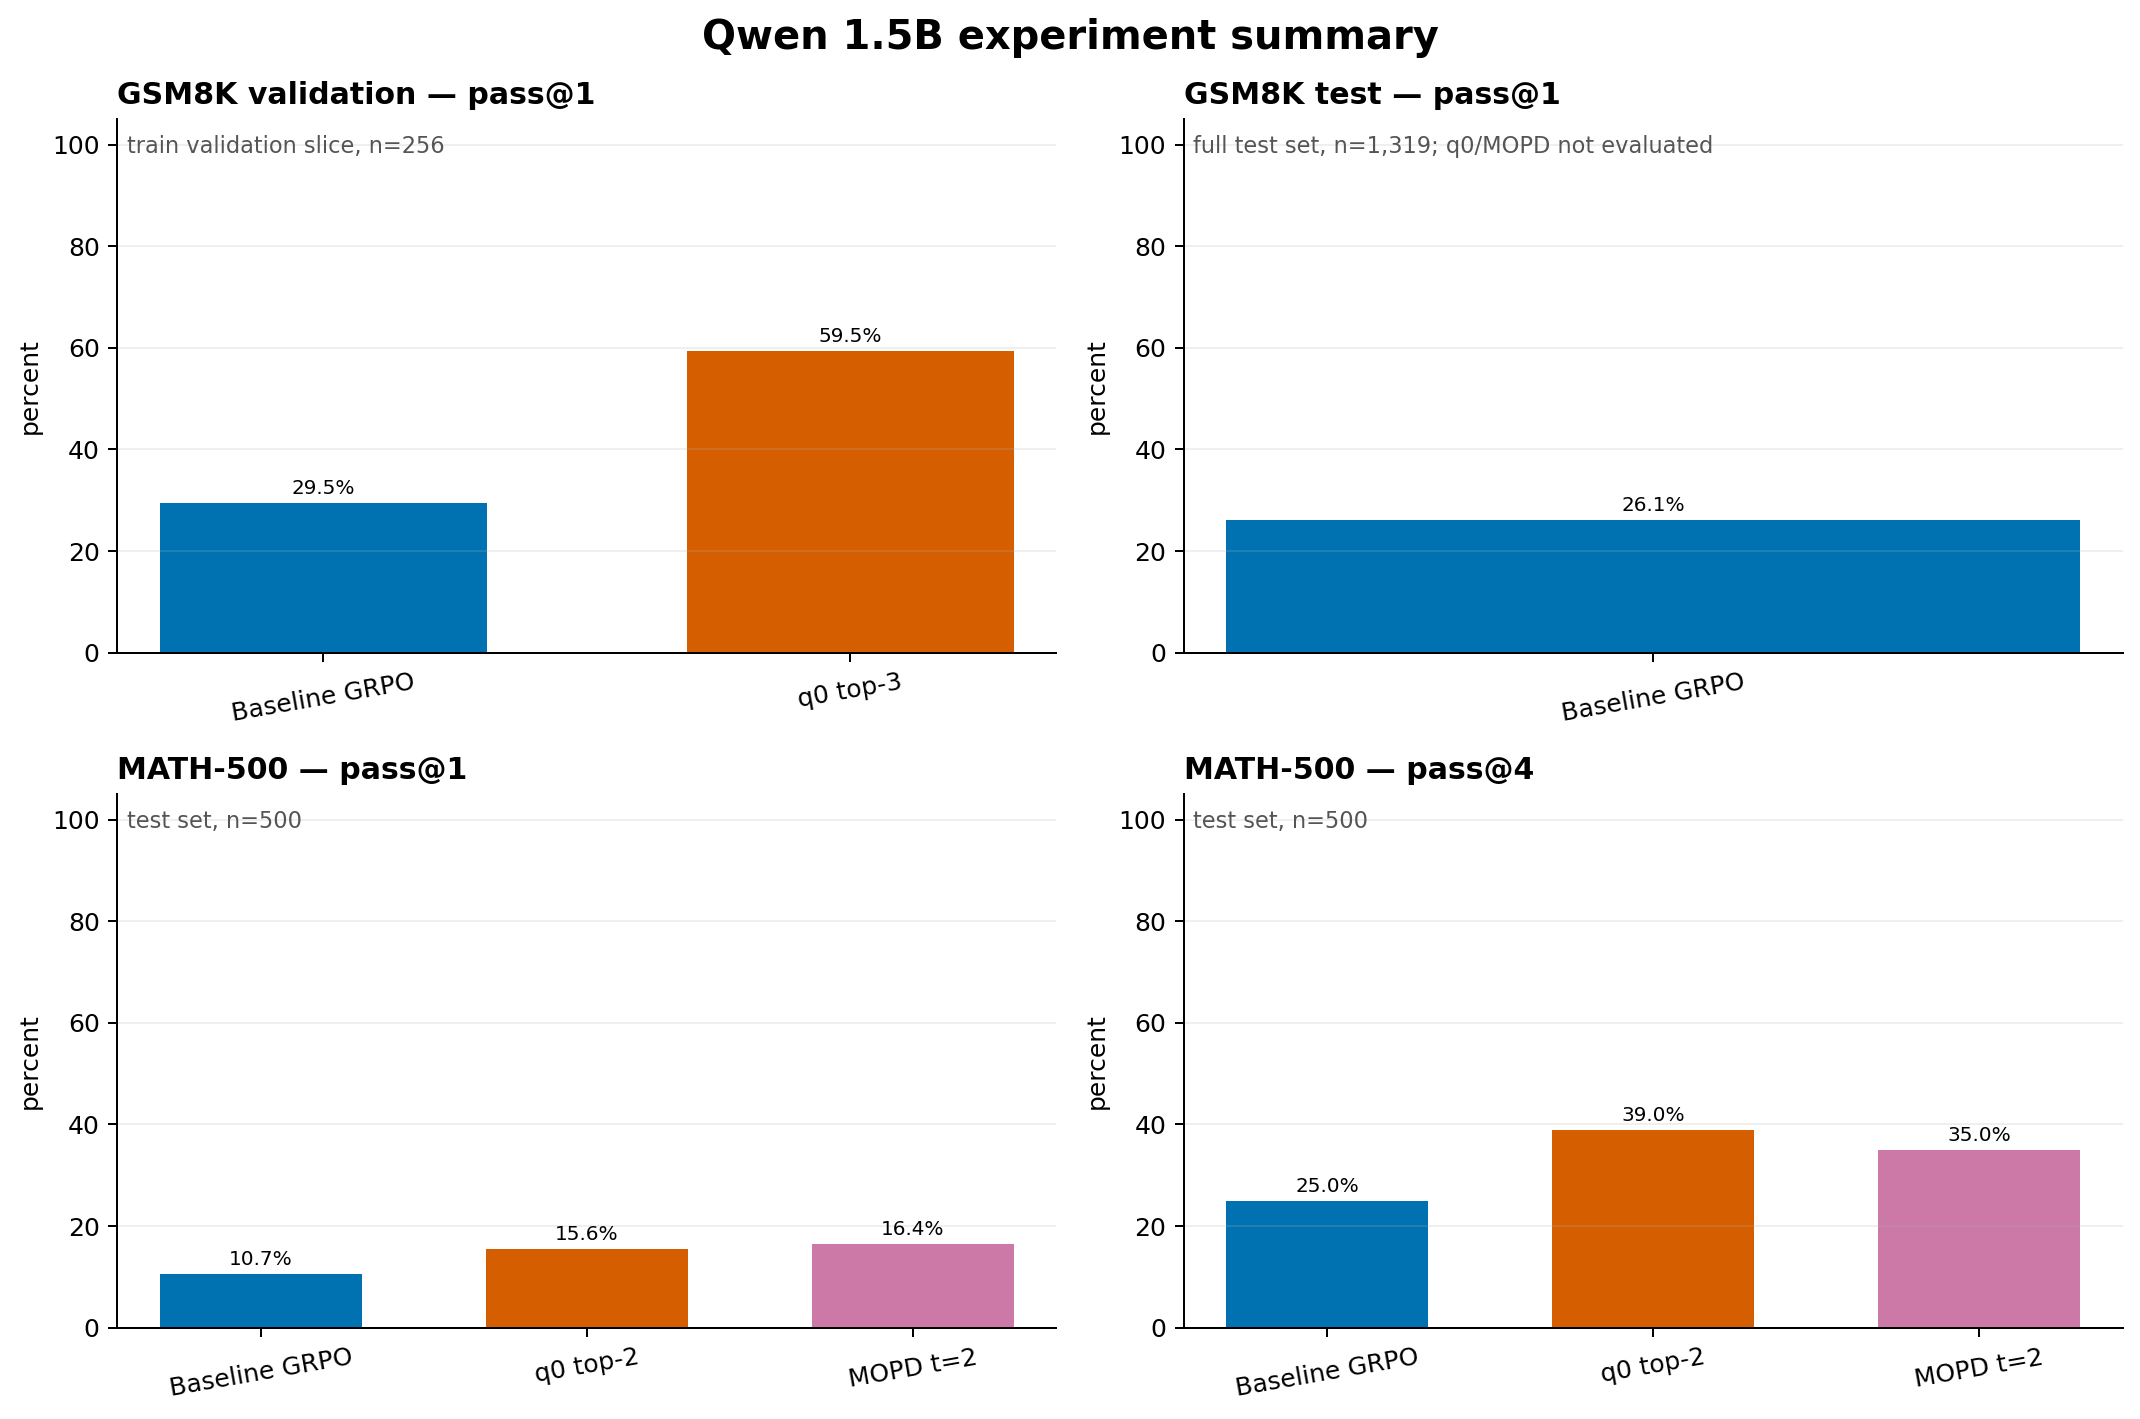
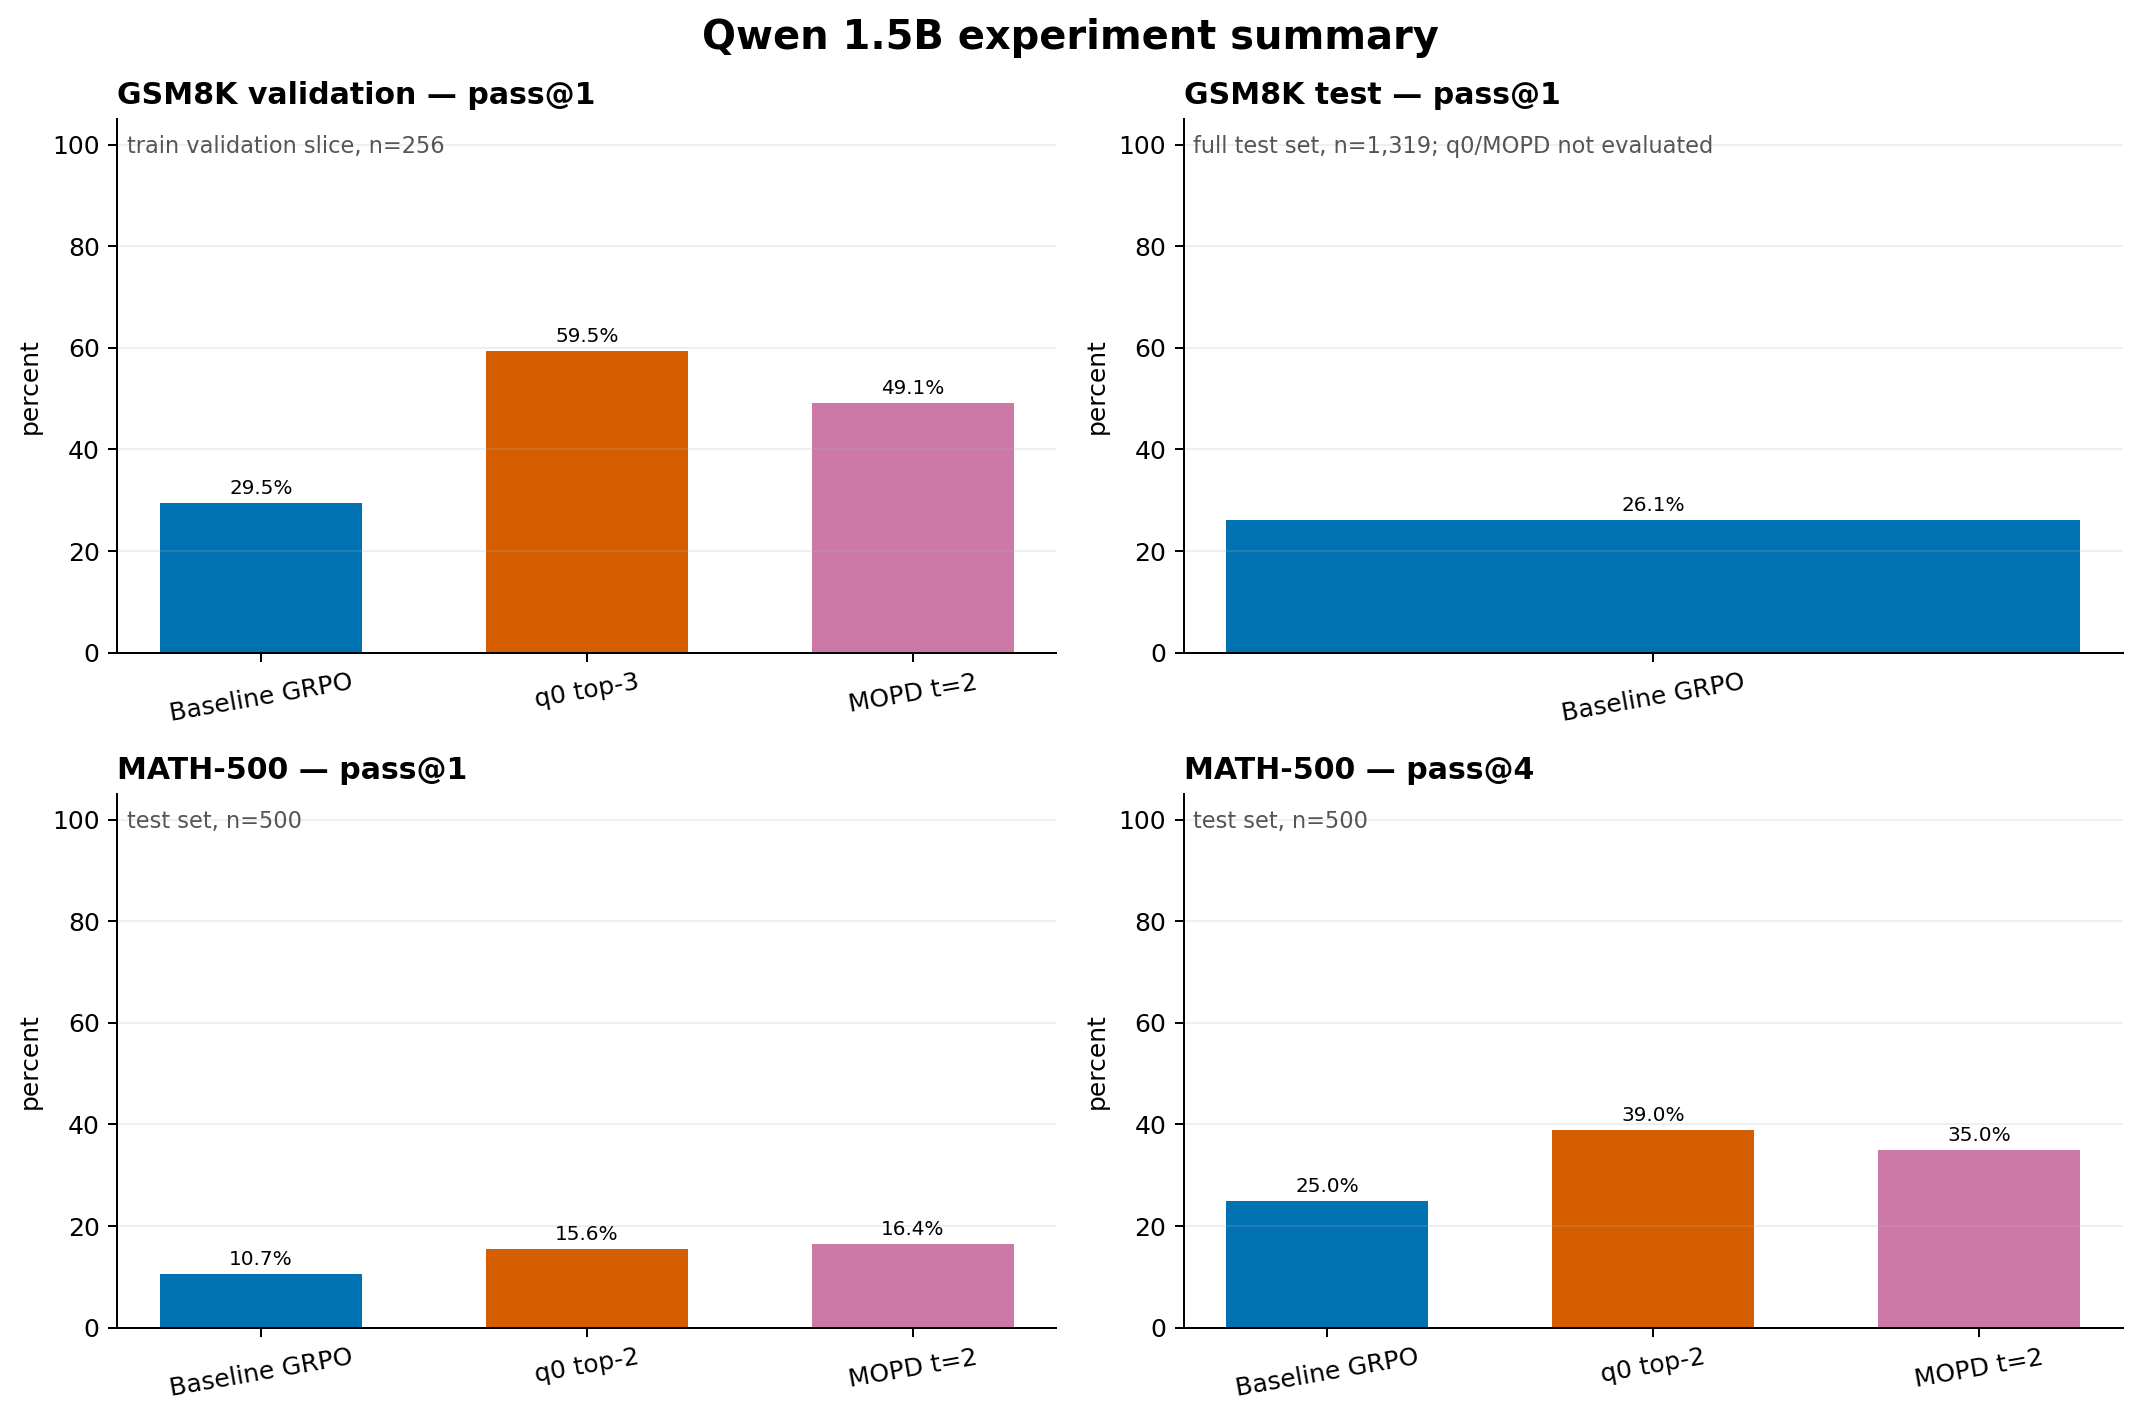
Complete GSM8K validation pass@1 comparison in final experiment graph

Changed region(s): [[0.0925, 0.2481, 0.4935, 0.5271]]

diff --git a/experiments/qwen_1_5b/plot_suite.py b/experiments/qwen_1_5b/plot_suite.py
@@ -287,17 +287,23 @@ def main():
     save(fig, "07_math500_comparisons")
 
     gsm_full = load_json("passk_baseline_gsm8k.json")
-    val_count = json.loads((ROOT / "runs/mopd_qwen1_5b_laptop/validation_results.json").read_text())["validation_count"]
-    gsm_val = {"baseline_grpo": passk.get("baseline_grpo"), "q0": passk.get("q0_k3"), "mopd": None}
+    mopd_t2_val = json.loads((ROOT / "runs/mopd_qwen1_5b_laptop_t2/validation_results.json").read_text())
+    val_count = mopd_t2_val["validation_count"]
+    mopd_t2_best = max(mopd_t2_val["candidates"], key=lambda x: x["pass_at_8"])
+    gsm_val = {"baseline_grpo": passk.get("baseline_grpo"), "q0": passk.get("q0_k3"), "mopd": mopd_t2_best}
     gsm_full_value = gsm_full["result"].get("pass_at_1") if gsm_full else None
-    final = {"baseline_grpo": {"MATH-500": math_baseline, "GSM8K test": gsm_full_value}, "q0": {"MATH-500": math_q0, "GSM8K test": None}, "mopd": {"MATH-500": mathk, "GSM8K test": None}}
     fig, axes = plt.subplots(2, 2, figsize=(12, 8))
     methods = ["Baseline GRPO", "q0 top-2", "MOPD t=2"]
     colors = [COLORS["baseline"], COLORS["q0"], COLORS["mopd_t2"]]
 
-    gsm_val_methods = ["Baseline GRPO", "q0 top-3"]
-    gsm_val_values = [pct(gsm_val["baseline_grpo"]["result"].get("pass_at_1")), pct(gsm_val["q0"]["result"].get("pass_at_1"))]
-    axes[0, 0].bar(gsm_val_methods, gsm_val_values, color=colors[:2], width=0.62)
+    gsm_val_methods = ["Baseline GRPO", "q0 top-3", "MOPD t=2"]
+    gsm_val_colors = [COLORS["baseline"], COLORS["q0"], COLORS["mopd_t2"]]
+    gsm_val_values = [
+        pct(gsm_val["baseline_grpo"]["result"].get("pass_at_1")),
+        pct(gsm_val["q0"]["result"].get("pass_at_1")),
+        pct(gsm_val["mopd"]["pass_at_1"]),
+    ]
+    axes[0, 0].bar(gsm_val_methods, gsm_val_values, color=gsm_val_colors, width=0.62)
     style(axes[0, 0], "GSM8K validation — pass@1", ylabel="percent")
     axes[0, 0].text(0.01, 0.97, f"train validation slice, n={val_count}", transform=axes[0, 0].transAxes, va="top", fontsize=9, color="#555555")
 
